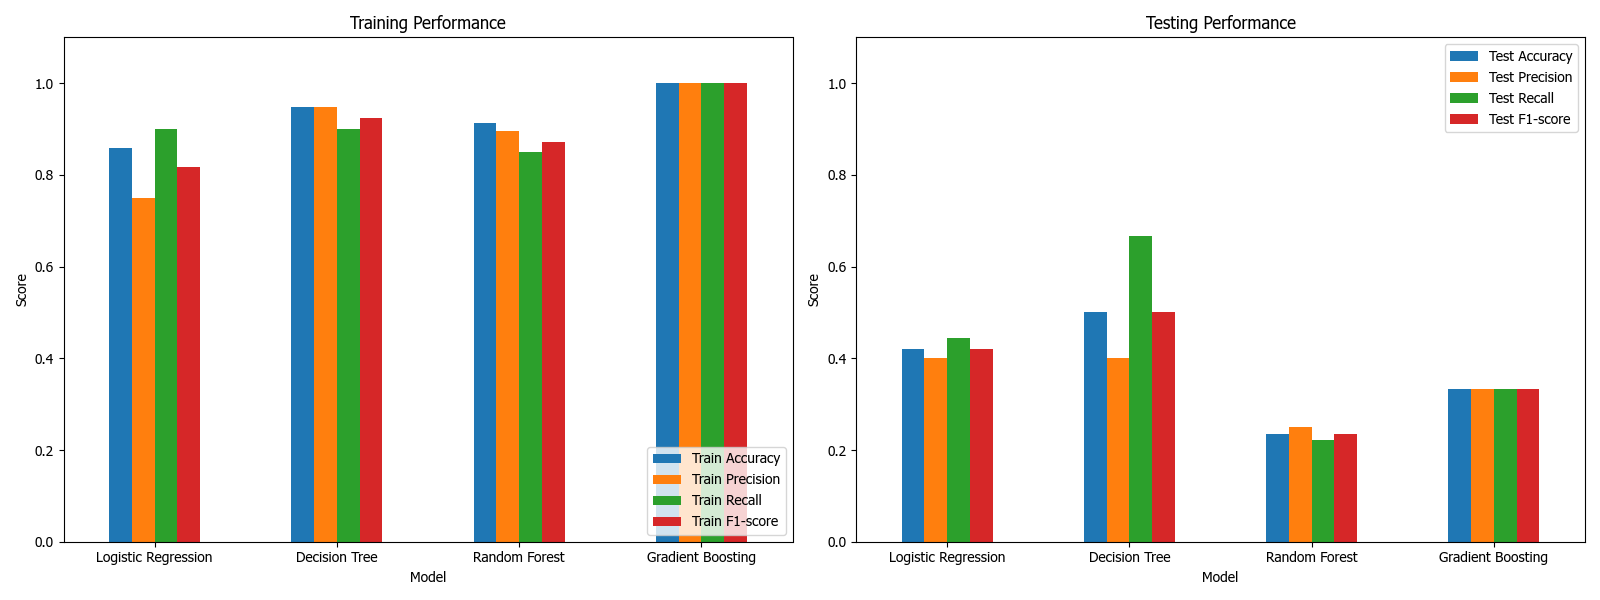
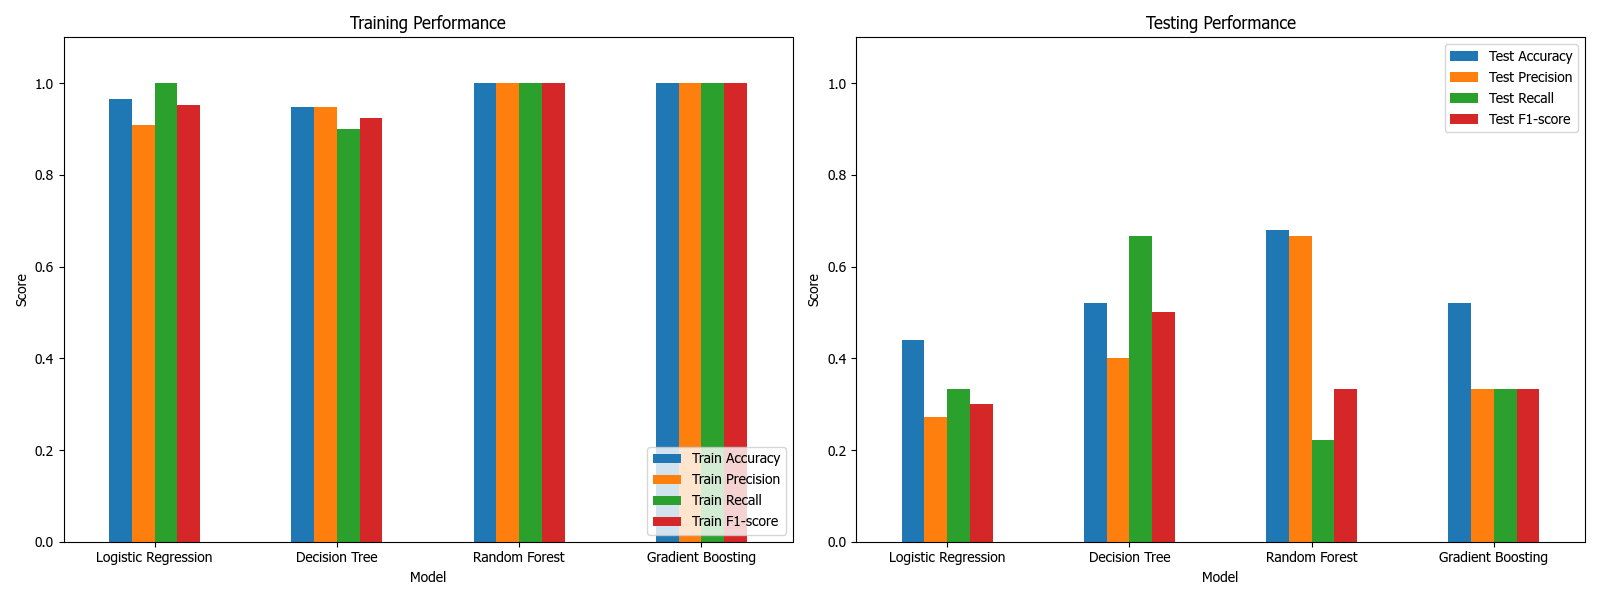
update supervise

diff --git a/models/supervise/supervise.py b/models/supervise/supervise.py
@@ -162,7 +162,7 @@ class train:
     best_overall_score = 0
 
     for name, model in models.items():
-        grid_search = GridSearchCV(model, param_grids[name], cv=5, scoring='f1', n_jobs=-1)
+        grid_search = GridSearchCV(model, param_grids[name], cv=5, scoring='accuracy', n_jobs=-1)
         grid_search.fit(X_train, y_train)
         
         best_model = grid_search.best_estimator_
@@ -174,7 +174,7 @@ class train:
         train_f1 = f1_score(y_train, y_train_pred, zero_division=0)
         
         y_pred = best_model.predict(X_test)
-        acc = f1_score(y_test, y_pred)
+        acc = accuracy_score(y_test, y_pred)
         
         results.append({
             'Model': name,